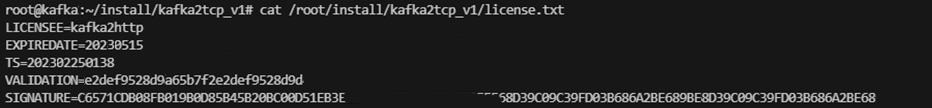
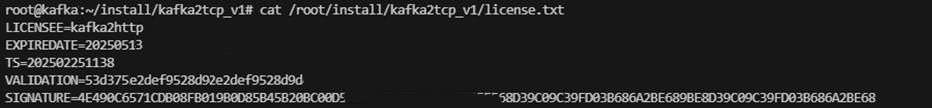
2.0.16

diff --git a/Software-License-Activation.md b/Software-License-Activation.md
@@ -5,7 +5,7 @@ Access the machine where the component is deployed and review the file located a
 
 ![License](img/License.png "License.png")
 
-The expiration date shown in the image above is May 15, 2023.
+The expiration date shown in the image above is May 13, 2025.
 
 ### How to Obtain a New License?
 
